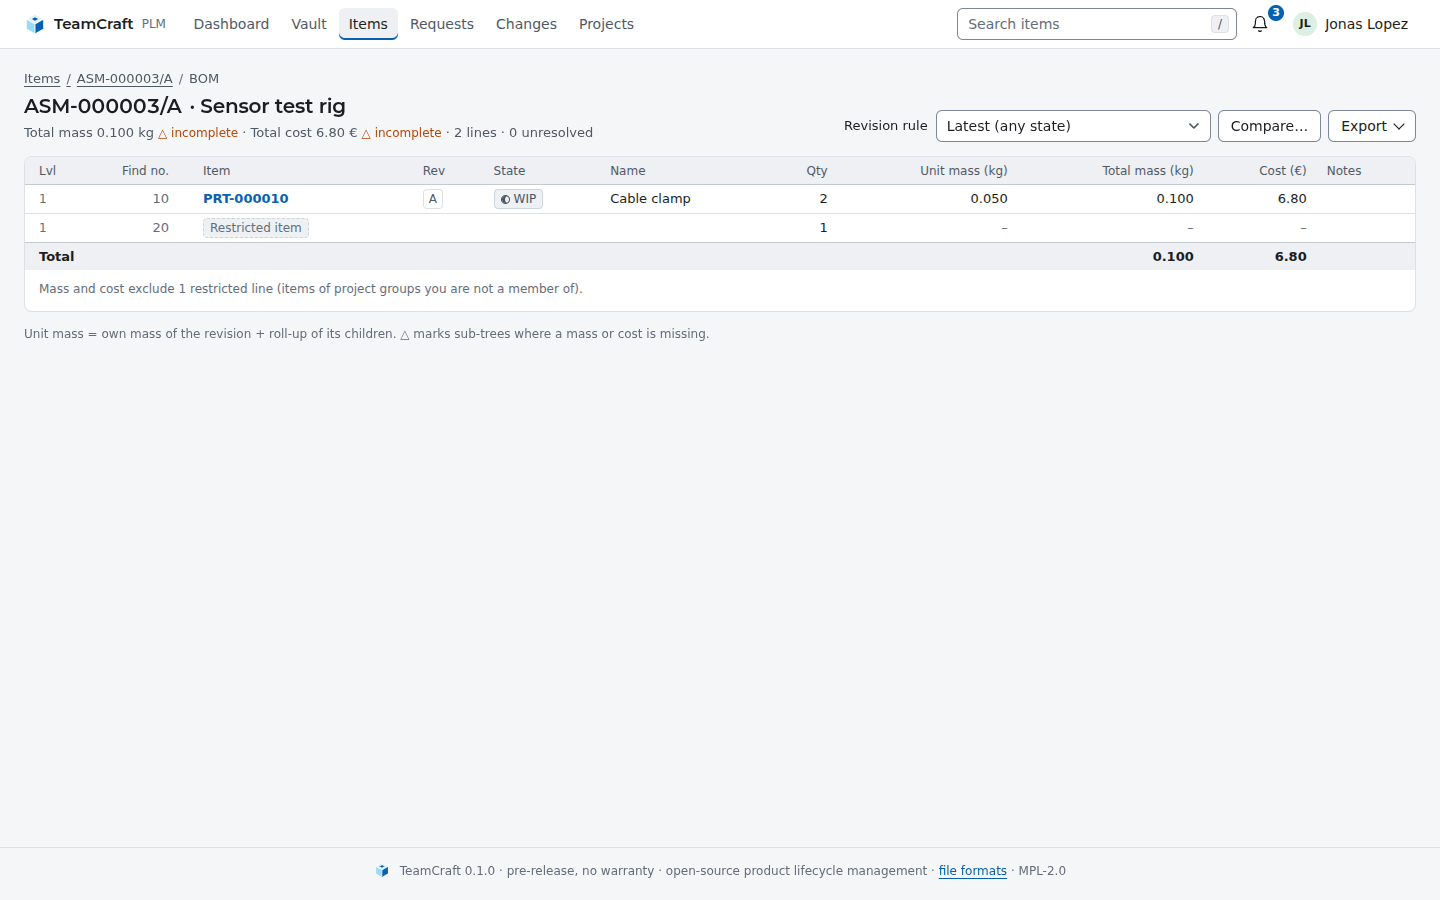
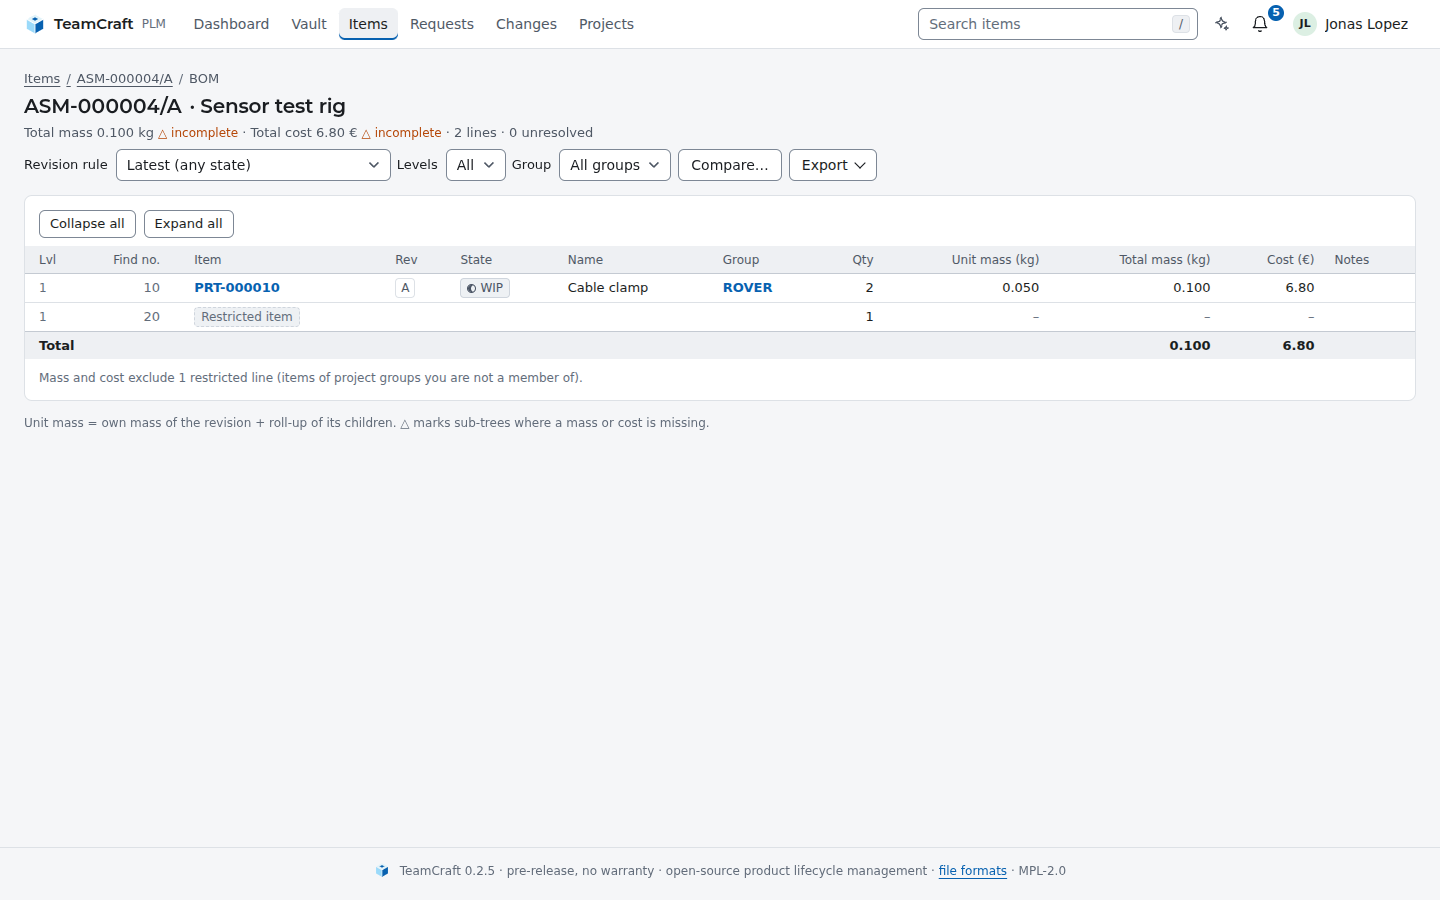
README: fresh screenshots of 0.2.5, NX assembly in 3D, stronger images
All README images recaptured in one run of the Screenshots workflow. New:
the NX assembly of the NIST enclosure in 3D, the as-built record with its
deviations, the simulation basis with result values and pass/fail, the
assistant sidebar on a revision and the desktop Agent view. Dropped images
that showed little or repeated others (viewer-3d, revision, notifications,
dashboard-dark, assistant, revision-similar, simulation-result-3d,
desktop-worklist). The What works list names NX assemblies, rendered NX
thumbnails, branding, monitoring, the sign-in audit and the desktop Agent
view and update notice. The similar-parts guide says where the card
appears (inline, not a pop-up), that it needs a reload after New item, and
that NX parts are compared.

diff --git a/README.md b/README.md
@@ -7,7 +7,7 @@
 <p align="center">
   <strong>Open-source product lifecycle management, built in pure Rust.</strong><br />
   Check your CAD data out and in, keep every version, release with reviews,
-  follow changes through assemblies and see STEP, mesh and point-cloud models
+  follow changes through assemblies and see STEP, NX, mesh and point-cloud models
   in 3D – in the browser, in the desktop app or through the REST API.<br />
   <em>Work in progress: an open-source alternative to Siemens Teamcenter.</em>
 </p>
@@ -77,11 +77,11 @@ end-to-end tests against a real PostgreSQL.
 
 **Previews and search**
 
-- **3D preview** – STEP, NX parts, STL, OBJ, PLY, 3MF, glTF, point clouds and more in the browser, converted on the server, no plug-ins.
-- **Native CAD thumbnails** – the preview images stored in Inventor, Solid Edge, NX and SolidWorks files.
+- **3D preview** – STEP, NX parts and assemblies (put together from their part files, hidden layers left out), STL, OBJ, PLY, 3MF, glTF, point clouds and more in the browser, converted on the server, no plug-ins.
+- **CAD thumbnails** – the preview images stored in Inventor, Solid Edge and SolidWorks files; NX parts and assemblies get a sharper thumbnail rendered from their 3D preview.
 - **FEA/CFD results** – VTK, VTU/VTP and CalculiX results coloured by a result field, with legend.
 - **Search** – ranked full-text search over numbers, names, materials, file names and file contents.
-- **Similar parts** – finds existing parts of similar 3D shape and size, with the reason for each hit.
+- **Similar parts** – on every revision with a STEP or mesh file, existing parts of similar 3D shape and size, with the reason for each hit.
 
 **Structure**
 
@@ -113,13 +113,15 @@ end-to-end tests against a real PostgreSQL.
 - **Custom attributes** – vendor, order number, RoHS … as text, number, yes/no or choice list per item type, versioned with each revision; in-house, purchased and standard parts; search by attribute value.
 - **Notifications** – in-app, e-mail and Mattermost; watch items, changes and change requests.
 - **Event webhooks** – signed JSON for releases, changes and simulation results, retried with backoff.
-- **Audit log** – every modification with user, time and details.
+- **Audit log** – every modification and every sign-in (password, SSO, failed attempts) with user, time and details; repeated failed sign-ins are slowed down.
+- **Branding** – replace the wide and the square logo under *Admin → Branding*; the desktop app shows them too.
+- **Monitoring** – `/healthz`, `/readyz` and Prometheus metrics at `/metrics` (requests, database pool, outbox backlogs, preview queue), enabled with a token.
 - **Backup and restore** – one command for database and vault (see below).
 
 **Clients and integrations**
 
 - **Web UI** – light and dark design that follows the operating system, plus distribution skins.
-- **Desktop app** – Linux, macOS and Windows client with a local working folder, *Get* of whole assemblies and an import wizard.
+- **Desktop app** – Linux, macOS and Windows client with a local working folder, *Get* of whole assemblies, an import wizard, an Agent view, and an update notice (never installs anything itself).
 - **REST API** – everything the UI does, with personal access tokens.
 - **MCP server** – AI assistants such as Claude Code search, explain BOMs and draft changes with your rights, never approving anything.
 - **Ask TeamCraft (optional)** – a sidebar on every page (web and desktop) that knows which page you are on, keeps your conversation and, with your own key for Anthropic, OpenAI, Azure OpenAI or any OpenAI-compatible service, or a local model (Ollama, vLLM), drafts release notes and answers questions with your rights, read-only by default.
@@ -160,44 +162,38 @@ the web UI with headless Chrome, TeamCraft Desktop on a virtual X display.
 <table>
   <tr>
     <td width="50%"><a href="media/screenshots/vault-explorer.png"><img src="media/screenshots/vault-explorer.png" alt="Vault explorer: the project group ROVER as a folder, items with state and lock owner, and the detail pane of the electronics enclosure with its files" /></a><br /><sub><b>Vault explorer</b> – project groups, lock owners, one-click check-out</sub></td>
-    <td width="50%"><a href="media/screenshots/revision-files.png"><img src="media/screenshots/revision-files.png" alt="Files of the mounting bracket revision: STEP, Inventor, SolidWorks and NX files with their formats, the preview image stored in the Inventor file, the 3D button of the STEP file and a text file in version 2" /></a><br /><sub><b>Revision files</b> – formats, versions and embedded CAD previews</sub></td>
+    <td width="50%"><a href="media/screenshots/revision-files.png"><img src="media/screenshots/revision-files.png" alt="Files of the mounting bracket revision: STEP, Inventor, SolidWorks and NX files with formats, previews and versions, and below them the similar existing parts found by 3D shape" /></a><br /><sub><b>Revision files</b> – formats, versions, CAD previews and similar existing parts</sub></td>
   </tr>
   <tr>
-    <td width="50%"><a href="media/screenshots/viewer-3d.png"><img src="media/screenshots/viewer-3d.png" alt="3D viewer in the browser showing the STEP model of the NIST CTC-01 mounting bracket" /></a><br /><sub><b>3D viewer</b> – STEP tessellated on the server, drawn with WebGL</sub></td>
+    <td width="50%"><a href="media/screenshots/nx-assembly-3d.png"><img src="media/screenshots/nx-assembly-3d.png" alt="3D viewer in the browser showing the NX assembly of the NIST MTC enclosure, put together from its nine NX part files" /></a><br /><sub><b>NX in 3D</b> – parts from their JT data, assemblies put together from their parts</sub></td>
     <td width="50%"><a href="media/screenshots/bom.png"><img src="media/screenshots/bom.png" alt="Multi-level bill of materials of the sensor mast assembly with quantities, states and mass and cost roll-up" /></a><br /><sub><b>Multi-level BOM</b> – revision rules, mass and cost roll-up</sub></td>
   </tr>
   <tr>
-    <td width="50%"><a href="media/screenshots/change-review.png"><img src="media/screenshots/change-review.png" alt="Change order in review: affected revisions, reviewers with one approval and one pending decision, and the impact analysis" /></a><br /><sub><b>Change order</b> – four-eyes review and impact analysis</sub></td>
-    <td width="50%"><a href="media/screenshots/revision.png"><img src="media/screenshots/revision.png" alt="Revision page of the mounting bracket: attributes, lifecycle state, check-out lock and actions" /></a><br /><sub><b>Revision</b> – attributes, lifecycle and lock</sub></td>
+    <td width="50%"><a href="media/screenshots/change-review.png"><img src="media/screenshots/change-review.png" alt="Change order in review: the affected revisions and the impact analysis listing the assemblies that depend on them" /></a><br /><sub><b>Change order</b> – affected revisions and impact analysis</sub></td>
+    <td width="50%"><a href="media/screenshots/as-built.png"><img src="media/screenshots/as-built.png" alt="As-built record of sensor mast unit RVR-0007: the design revision it was built to, serial number and two deviations, one accepted as is and one still open" /></a><br /><sub><b>As-built records</b> – serial number, as-built BOM and deviations</sub></td>
   </tr>
   <tr>
-    <td width="50%"><a href="media/screenshots/notifications.png"><img src="media/screenshots/notifications.png" alt="Notifications: review requests, approvals and the release of the standard fasteners" /></a><br /><sub><b>Notifications</b> – in-app, e-mail and Mattermost</sub></td>
+    <td width="50%"><a href="media/screenshots/simulation-cfd-3d.png"><img src="media/screenshots/simulation-cfd-3d.png" alt="Made-up CFD result of the flow around a cylindrical mast fairing in the 3D viewer, coloured by velocity magnitude with a colour legend and field selector" /></a><br /><sub><b>FEA/CFD results in 3D</b> – VTK and CalculiX results coloured by field</sub></td>
+    <td width="50%"><a href="media/screenshots/simulation-results.png"><img src="media/screenshots/simulation-results.png" alt="A static analysis linked to the mounting bracket revision it analysed, with result values, limits and pass or fail" /></a><br /><sub><b>Simulation results</b> – linked to the analysed revision, with limits and pass/fail</sub></td>
+  </tr>
+  <tr>
+    <td width="50%"><a href="media/screenshots/assistant-sidebar.png"><img src="media/screenshots/assistant-sidebar.png" alt="The Ask TeamCraft sidebar open on the mounting bracket revision, with the page it knows about shown as a context chip" /></a><br /><sub><b>Ask TeamCraft</b> – knows the page you are on, works with your rights</sub></td>
+    <td width="50%"><a href="media/screenshots/restricted-bom.png"><img src="media/screenshots/restricted-bom.png" alt="The BOM of the sensor test rig as seen by a user outside a restricted project group: one line shows only as Restricted item, and mass and cost exclude it with a note" /></a><br /><sub><b>Read permissions</b> – restricted groups stay hidden, even inside BOMs</sub></td>
+  </tr>
+  <tr>
+    <td width="50%"><a href="media/screenshots/desktop-home.png"><img src="media/screenshots/desktop-home.png" alt="TeamCraft Desktop start screen: the project group ROVER expanded in the navigator with its items and their states, item statistics and the dependents to check" /></a><br /><sub><b>Desktop app</b> – navigator, statistics and what needs attention</sub></td>
+    <td width="50%"><a href="media/screenshots/desktop-revision.png"><img src="media/screenshots/desktop-revision.png" alt="TeamCraft Desktop: the checked-out mounting bracket revision in a tab with check-in, edit and release actions, its properties, lifecycle and the sub-tabs for files, structure, where used and 3D viewer" /></a><br /><sub><b>Desktop revision tab</b> – check-out to a local workspace, check-in</sub></td>
+  </tr>
+  <tr>
+    <td width="50%"><a href="media/screenshots/desktop-change.png"><img src="media/screenshots/desktop-change.png" alt="TeamCraft Desktop: the enclosure change order in review with the approve and reject form, one approval and one pending reviewer and the affected revisions" /></a><br /><sub><b>Desktop review</b> – four-eyes approval without leaving the app</sub></td>
+    <td width="50%"><a href="media/screenshots/desktop-agent.png"><img src="media/screenshots/desktop-agent.png" alt="TeamCraft Desktop Agent view: a local agent answers What needs my attention with the change order waiting for review and the open change request" /></a><br /><sub><b>Desktop agent</b> – a local AI agent next to your PDM data</sub></td>
+  </tr>
+  <tr>
+    <td width="50%"><a href="media/screenshots/bom-dark.png"><img src="media/screenshots/bom-dark.png" alt="The multi-level bill of materials of the sensor mast assembly in the dark scheme with states, quantities and the mass and cost totals" /></a><br /><sub><b>Dark</b> – follows the system appearance, or pick Light or Dark</sub></td>
     <td width="50%" align="center"><a href="media/screenshots/mobile-dashboard.png"><img src="media/screenshots/mobile-dashboard.png" width="200" alt="The dashboard on a 390 pixel wide phone screen" /></a><br /><sub><b>On the phone</b> – the same pages, responsive</sub></td>
   </tr>
-  <tr>
-    <td width="50%"><a href="media/screenshots/dashboard-dark.png"><img src="media/screenshots/dashboard-dark.png" alt="The dashboard in the dark scheme: the same work lists, statistics and dependents to check on dark surfaces" /></a><br /><sub><b>Dark</b> – follows the system appearance, or pick Light or Dark</sub></td>
-    <td width="50%"><a href="media/screenshots/bom-dark.png"><img src="media/screenshots/bom-dark.png" alt="The multi-level bill of materials of the sensor mast assembly in the dark scheme with states, quantities and the mass and cost totals" /></a><br /><sub><b>Multi-level BOM, dark</b> – every page in both schemes</sub></td>
-  </tr>
-  <tr>
-    <td width="50%"><a href="media/screenshots/assistant.png"><img src="media/screenshots/assistant.png" alt="Ask TeamCraft: the quick action What needs my attention, a free question box, the option to allow drafts and the note that the assistant reads the PDM data with your rights and never approves or releases" /></a><br /><sub><b>Ask TeamCraft</b> – the AI assistant with your rights, read-only by default</sub></td>
-    <td width="50%"><a href="media/screenshots/revision-similar.png"><img src="media/screenshots/revision-similar.png" alt="Similar parts of the mounting bracket: existing parts of similar 3D shape and size, ranked, each with the reason for the hit" /></a><br /><sub><b>Similar parts</b> – "do we already have a part like this?"</sub></td>
-  </tr>
-  <tr>
-    <td width="50%"><a href="media/screenshots/simulation-result-3d.png"><img src="media/screenshots/simulation-result-3d.png" alt="A static analysis result of the mast arm in the 3D viewer, coloured by von Mises stress with a colour legend and field selector" /></a><br /><sub><b>FEA results in 3D</b> – VTK and CalculiX results coloured by field</sub></td>
-    <td width="50%"><a href="media/screenshots/simulation-cfd-3d.png"><img src="media/screenshots/simulation-cfd-3d.png" alt="Made-up CFD result of the flow around a cylindrical mast fairing in the 3D viewer, coloured by velocity magnitude with a colour legend and field selector" /></a><br /><sub><b>CFD results in 3D</b> – velocity and pressure fields</sub></td>
-  </tr>
-  <tr>
-    <td width="50%"><a href="media/screenshots/restricted-bom.png"><img src="media/screenshots/restricted-bom.png" alt="The BOM of the sensor test rig as seen by a user outside a restricted project group: one line shows only as Restricted item, and mass and cost exclude it with a note" /></a><br /><sub><b>Read permissions</b> – restricted groups stay hidden, even inside BOMs</sub></td>
-    <td width="50%"><a href="media/screenshots/desktop-home.png"><img src="media/screenshots/desktop-home.png" alt="TeamCraft Desktop start screen: the project group ROVER expanded in the navigator with its items and their states, item statistics and the dependents to check" /></a><br /><sub><b>Desktop app</b> – navigator, statistics and what needs attention</sub></td>
-  </tr>
-  <tr>
-    <td width="50%"><a href="media/screenshots/desktop-revision.png"><img src="media/screenshots/desktop-revision.png" alt="TeamCraft Desktop: the checked-out mounting bracket revision in a tab with check-in, edit and release actions, its properties, lifecycle and the sub-tabs for files, structure, where used and 3D viewer" /></a><br /><sub><b>Desktop revision tab</b> – check-out to a local workspace, check-in</sub></td>
-    <td width="50%"><a href="media/screenshots/desktop-change.png"><img src="media/screenshots/desktop-change.png" alt="TeamCraft Desktop: the enclosure change order in review with the approve and reject form, one approval and one pending reviewer and the affected revisions" /></a><br /><sub><b>Desktop review</b> – approve or reject without leaving the app</sub></td>
-  </tr>
-  <tr>
-    <td width="50%" align="center" colspan="2"><a href="media/screenshots/desktop-worklist.png"><img src="media/screenshots/desktop-worklist.png" alt="TeamCraft Desktop worklist: the revision checked out by me, the change order waiting for my review and four dependents to check" /></a><br /><sub><b>Desktop worklist</b> – check-outs, reviews and dependents</sub></td>
-  </tr>
 </table>
+
 
 ## Quick start
 

diff --git a/docs/src/guide/similar-parts.md b/docs/src/guide/similar-parts.md
@@ -12,22 +12,31 @@ reason you can check.
   *extents 118 × 40 × 8 vs 120 × 40 × 8, shape distribution 94 % similar*.
   On a brand-new part (only revision A, in work) the section is called
   *Similar existing parts*: if one fits, reuse it instead of creating a new
-  item. Create the item with its STEP or mesh file and the list appears on
-  the page that opens.
-* **Desktop app**: the revision overview links to the list in the browser.
+  item. It is a card on the page, not a pop-up: it appears whenever the
+  revision has a file it can compare, and stays hidden otherwise. Right
+  after *Items → New item* with a STEP or mesh file the card first says
+  *Comparing the shape … reload the page in a moment* – the page does not
+  refresh itself, reload it once the comparison is done.
+* **Desktop app**: the revision overview has a *Compare the shape in the
+  browser* button that opens this card in the web UI; the app itself shows
+  no list.
 * **REST API**: `GET /api/v1/items/{number}/revisions/{code}/similar`
   ([REST API](../reference/api.md#similar-parts)).
 * **AI assistants**: the MCP tool `find_similar_parts`
   ([MCP server](../reference/mcp.md)); `find_duplicate_files` is its sibling
   for byte-identical copies.
 
-The comparison needs a 3D model with a preview: STEP or a mesh (STL, OBJ,
-PLY, OFF, 3MF, AMF, glTF/GLB, 3DS). Native CAD files are compared through
-their STEP export – attach one. Point clouds are not compared.
+The comparison needs a 3D model with a preview: STEP, a mesh (STL, OBJ,
+PLY, OFF, 3MF, AMF, glTF/GLB, 3DS) or an NX part (`.prt` with its JT
+lightweight representation). Other native CAD files are compared through
+their STEP export – attach one. NX assemblies are not compared (they hold no
+shape of their own), and neither are point clouds. Simulation result files
+(VTK, VTU, VTP, CalculiX FRD) have a 3D preview too and are currently
+compared like parts.
 
 ## How it works
 
-When a 3D file is uploaded (or first shown), the preview process computes a
+When a 3D file is attached or checked in (or first shown), the preview process computes a
 small **shape signature** of its mesh, once per file content:
 
 | Part of the signature  | What it is                                                                                     |
